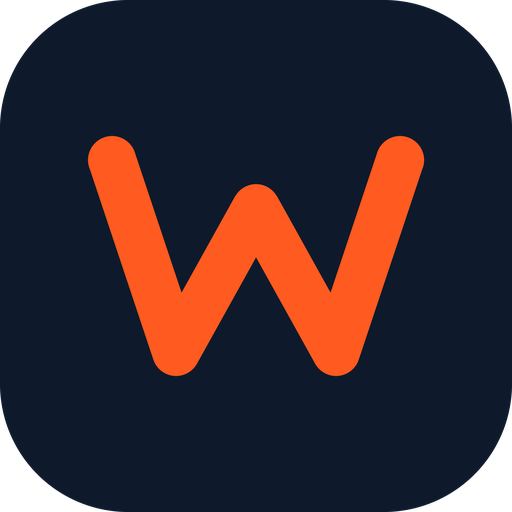
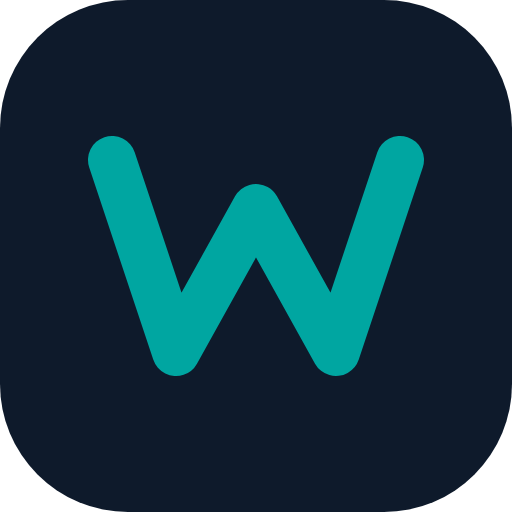
Hauptfarbe Türkis statt Orange (Wunsch 10.10.2026)
- Akzentfarbe auf waybuild-IT-Türkis #00A6A1, Text-Akzent #00706C (lesbar), Button-Hover #1FBAB5
- Hero-Grafik, Über-uns-Bild und Preistabelle: Verläufe/Tönungen in Türkis
- Logo-„W“, Favicon, App-Icons und Social-Media-Vorschaubild (og-image) neu in Türkis

Claude-Session: https://claude.ai/code/session_01798wEzEBMs2Peu1QuLUAcs

Changed region(s): [[0.1562, 0.25, 0.8438, 0.75]]

diff --git a/src/styles/global.css b/src/styles/global.css
@@ -7,8 +7,8 @@
   --paper: #f7f5f0;
   --paper-2: #efebe3;
   --white: #ffffff;
-  --accent: #ff5a1f;
-  --accent-ink: #b83a0b;
+  --accent: #00a6a1;  /* waybuild-IT-Türkis (Wunsch 10.10.2026, vorher Orange) */
+  --accent-ink: #00706c;
   --line: #ddd6c9;
   --ok: #177049;
   --radius: 14px;
@@ -85,7 +85,7 @@ img { max-width: 100%; height: auto; display: block; }
 }
 .btn:hover { transform: translateY(-1px); }
 .btn--primary { background: var(--accent); color: var(--ink); }
-.btn--primary:hover { background: #ff7440; }
+.btn--primary:hover { background: #1fbab5; }
 .btn--ghost { border-color: currentColor; background: transparent; }
 .btn--dark { background: var(--ink); color: var(--paper); }
 
